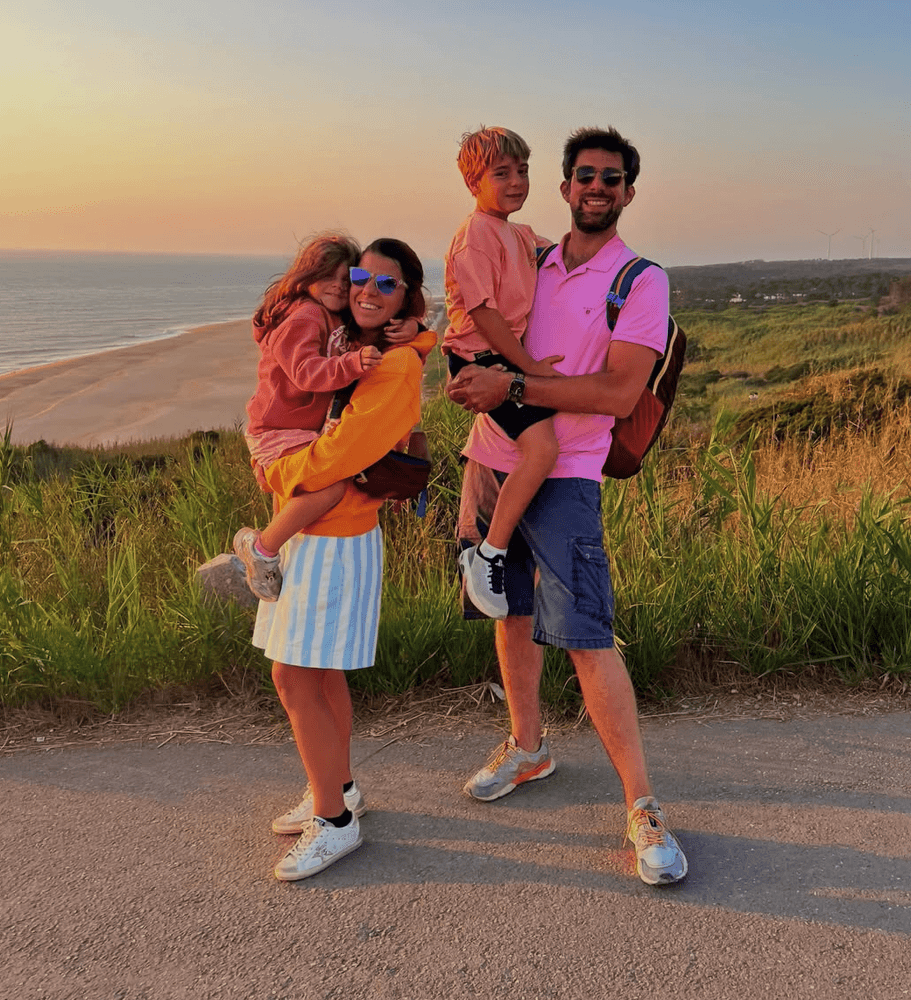
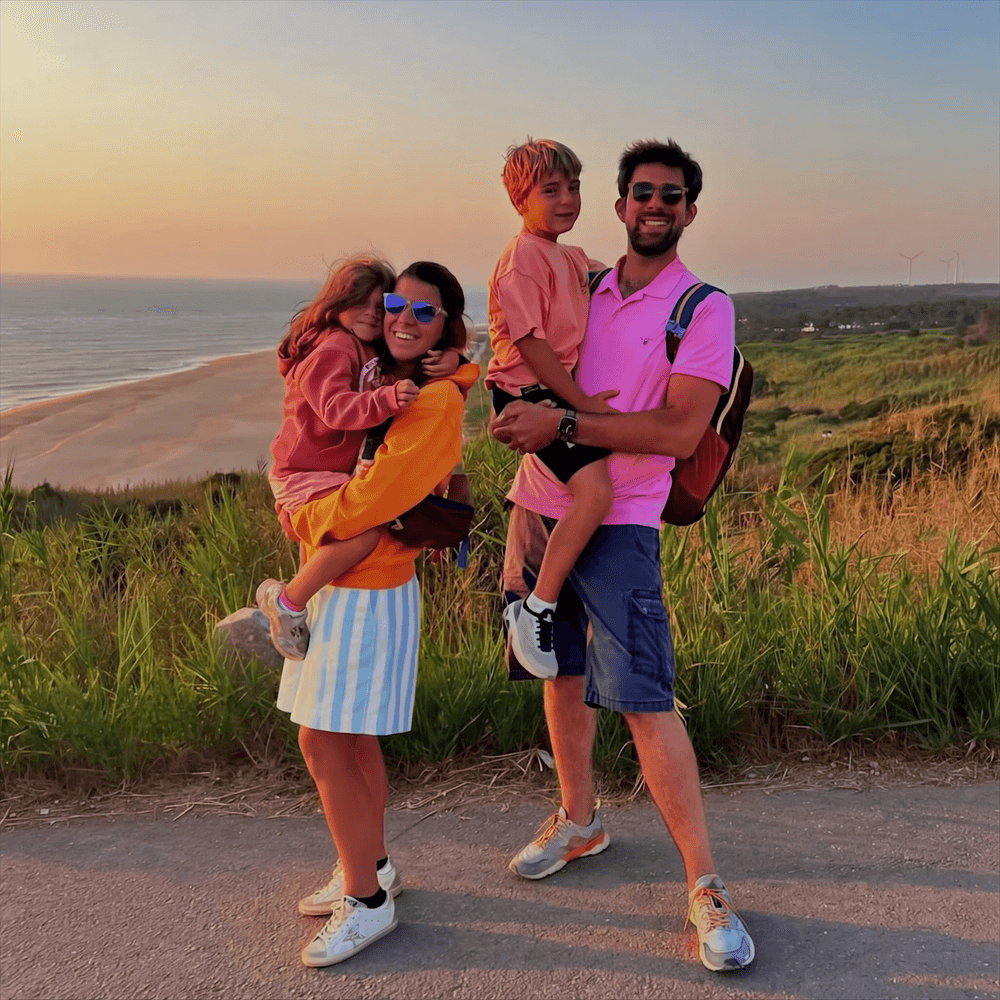
fix(about): align original portraits and profile text

diff --git a/data/authors/portraitAssets.test.ts b/data/authors/portraitAssets.test.ts
@@ -7,6 +7,9 @@ import { describe, expect, it } from 'vitest'
 type PortraitFrontmatter = {
   id: string
   original: string
+  focalPoint: string
+  originalFocalPoint?: string
+  originalScale?: number
   variants: Array<{ src: string }>
 }
 
@@ -20,7 +23,7 @@ const assetPaths = portraits.flatMap((portrait) => [
 
 const toPublicPath = (src: string) => path.join(process.cwd(), 'public', src)
 
-const responsivePath = (src: string, width: 144 | 200, extension: 'png' | 'webp') => {
+const responsivePath = (src: string, width: number, extension: 'png' | 'webp') => {
   const parsed = path.parse(toPublicPath(src))
   return path.join(parsed.dir, 'responsive', `${parsed.name}-${width}w.${extension}`)
 }
@@ -61,4 +64,25 @@ describe('About portrait assets', () => {
       }
     }
   })
+
+  it.each(['family-sunset', 'statue'])(
+    'uses an aligned square original and complete responsive set for %s',
+    (id) => {
+      const portrait = portraits.find((candidate) => candidate.id === id)
+      expect(portrait).toBeDefined()
+
+      const primary = imageSize(readFileSync(toPublicPath(portrait!.original)))
+      expect(primary).toMatchObject({ width: 1000, height: 1000, type: 'png' })
+      expect(portrait!.originalFocalPoint ?? portrait!.focalPoint).toBe(portrait!.focalPoint)
+      expect(portrait!.originalScale ?? 1).toBe(1)
+
+      for (const width of [144, 200, 640, 800, 1000] as const) {
+        for (const extension of ['png', 'webp'] as const) {
+          const variant = responsivePath(portrait!.original, width, extension)
+          expect(existsSync(variant)).toBe(true)
+          expect(imageSize(readFileSync(variant)).width).toBe(width)
+        }
+      }
+    }
+  )
 })

diff --git a/components/about/AboutProfile.tsx b/components/about/AboutProfile.tsx
@@ -74,7 +74,7 @@ export default function AboutProfile({
       )}
 
       {/* Identity */}
-      <div className="text-center md:text-left">
+      <div className="self-center text-center md:text-left">
         <h2 className="mb-2 inline-block bg-gradient-to-r from-[var(--color-primary-500)] to-[var(--color-secondary-500)] bg-clip-text text-2xl font-semibold text-transparent">
           {name}
         </h2>
@@ -90,7 +90,7 @@ export default function AboutProfile({
       </div>
 
       {/* High-signal highlights */}
-      <div className="text-text-secondary space-y-3 text-sm md:col-span-2 lg:col-span-1 lg:pl-4">
+      <div className="text-text-secondary space-y-3 self-center text-sm md:col-span-2 lg:col-span-1 lg:pl-4">
         <ul className="space-y-3">
           <li>• {t('about.profile.highlights.0')}</li>
           <li>• {t('about.profile.highlights.1')}</li>

diff --git a/components/about/AboutProfile.test.tsx b/components/about/AboutProfile.test.tsx
@@ -76,6 +76,16 @@ const IT_HIGHLIGHTS = [
 
 describe('AboutProfile', () => {
   describe('identity block', () => {
+    it('vertically centers the identity and highlights beside the portrait carousel', async () => {
+      renderWithProviders(<AboutProfile {...baseProps} portraits={portraits} />)
+
+      const heading = await screen.findByRole('heading', { level: 2, name: 'Davide Aliti' })
+      const highlights = screen.getByRole('list')
+
+      expect(heading.parentElement).toHaveClass('self-center')
+      expect(highlights.parentElement).toHaveClass('self-center')
+    })
+
     it('renders the name as a level-2 heading', async () => {
       renderWithProviders(<AboutProfile {...baseProps} />)
 
